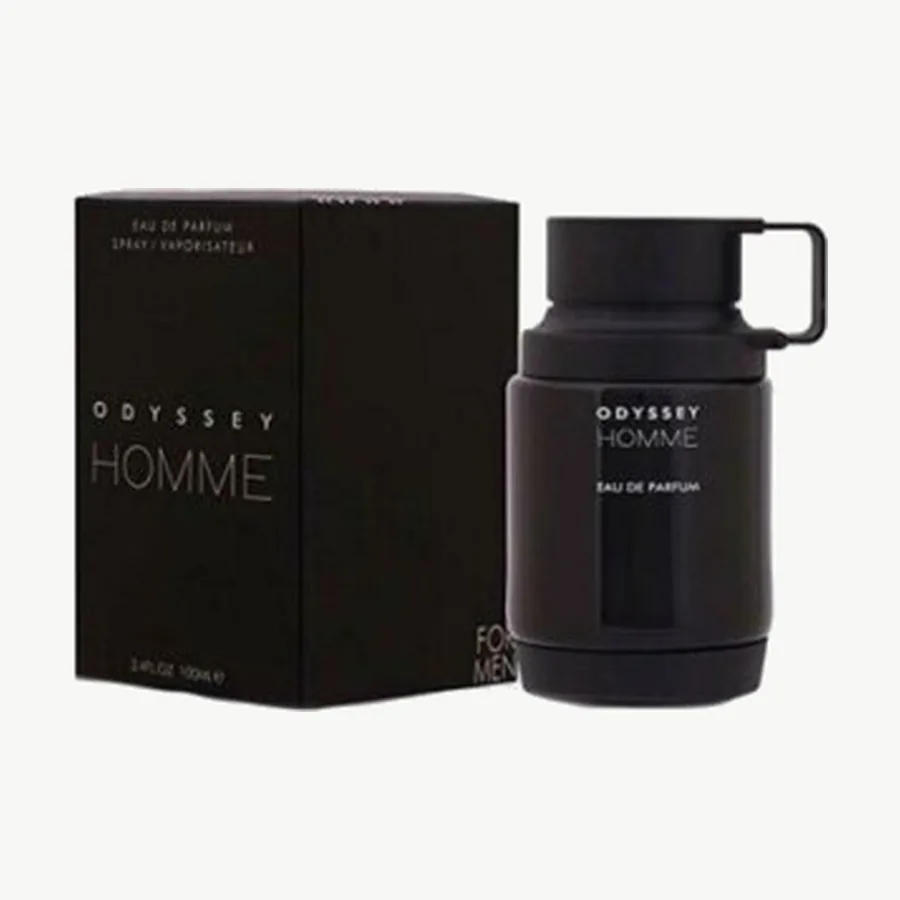
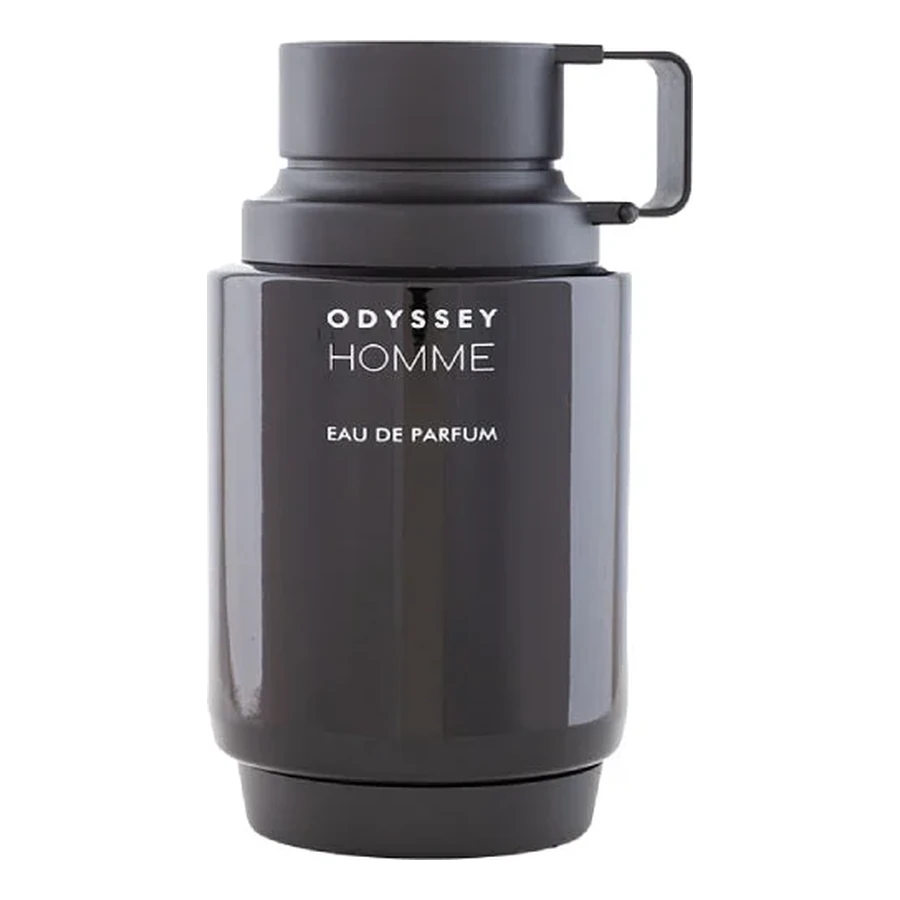
Add Rome La Bomba and Revolution Ultra, and a bottle-only Odyssey Homme
The new Odyssey Homme shot is the bottle alone, so it replaces the older
box-and-bottle composite on the 100 ml entry and also serves the 60 ml one —
same bottle, different capacity. Only Hugo Boss Unlimited is left without a
photo.

Claude-Session: https://claude.ai/code/session_01WY2PnSyttmXUJ6hCbT7HSf

diff --git a/index.html b/index.html
@@ -1347,10 +1347,10 @@
     { id: 'ZX_PE-AU-M-109313', marca: 'Armaf', nombre: 'Odyssey Homme Black', ml: '100 ml', tipo: 'EDP', genero: 'Hombre', precio: 40, img: 'img/odyssey-homme-black.webp' },
     { id: 'ZX_PE-AU-M-149371', marca: 'Armaf', nombre: 'Odyssey Mandarin Sky', ml: '100 ml', tipo: 'EDP', genero: 'Hombre', precio: 45, img: 'img/odyssey-mandarin-sky.webp' },
     { id: 'ZX_PE-AU-U-807217', marca: 'Armaf', nombre: 'Odyssey Marshmallow', ml: '100 ml', tipo: 'EDP', genero: 'Unisex', precio: 45, img: 'img/odyssey-marshmallow.webp' },
-    { id: 'ZX_PE-AU-U-805787', marca: 'Armaf', nombre: 'Odyssey Revolution Ultra', ml: '100 ml', tipo: 'EDP', genero: 'Unisex', precio: 45, img: null },
+    { id: 'ZX_PE-AU-U-805787', marca: 'Armaf', nombre: 'Odyssey Revolution Ultra', ml: '100 ml', tipo: 'EDP', genero: 'Unisex', precio: 45, img: 'img/odyssey-revolution-ultra.webp' },
     { id: 'ZX_PE-AU-M-094663', marca: 'Armaf', nombre: 'Tres Nuit', ml: '100 ml', tipo: 'EDP', genero: 'Hombre', precio: 35, img: 'img/tres-nuit.webp' },
     { id: 'ZX_PE-BHA-U-062769', marca: 'Bharara', nombre: 'Rome Imagine', ml: '100 ml', tipo: 'EDP', genero: 'Unisex', precio: 48, img: 'img/rome-imagine.webp' },
-    { id: 'ZX_PE-BHA-W-670336', marca: 'Bharara', nombre: 'Rome La Bomba', ml: '100 ml', tipo: 'EDP', genero: 'Mujer', precio: 48, img: null },
+    { id: 'ZX_PE-BHA-W-670336', marca: 'Bharara', nombre: 'Rome La Bomba', ml: '100 ml', tipo: 'EDP', genero: 'Mujer', precio: 48, img: 'img/rome-la-bomba.webp' },
     { id: 'ZX_PE-BHA-M-670480', marca: 'Bharara', nombre: 'Rome Intense', ml: '100 ml', tipo: 'EDP', genero: 'Hombre', precio: 48, img: 'img/rome-intense.webp' },
     { id: 'ZX_PE-DG-W-020233', marca: 'Dolce & Gabbana', nombre: 'Light Blue', ml: '100 ml', tipo: 'EDT', genero: 'Mujer', precio: 75, img: 'img/light-blue.webp' },
     { id: 'ZX_PE-DM-M-769565', marca: 'Dumont', nombre: 'Nitro Red Intensely', ml: '100 ml', tipo: 'EDP', genero: 'Hombre', precio: 65, img: 'img/nitro-red-intensely.webp' },
@@ -1382,7 +1382,7 @@
     { id: 'EP-ag-sweet-like-candy', marca: 'Ariana Grande', nombre: 'Sweet Like Candy', ml: '100 ml', tipo: 'EDP', genero: 'Mujer', precio: 60, img: 'img/sweet-like-candy.webp' },
     { id: 'EP-armaf-cdn-intense', marca: 'Armaf', nombre: 'Club de Nuit Intense', ml: '105 ml', tipo: 'EDP', genero: 'Hombre', precio: 55, img: 'img/club-de-nuit-intense.webp' },
     { id: 'EP-armaf-lionheart-woman', marca: 'Armaf', nombre: 'Lionheart Woman', ml: '100 ml', tipo: 'EDP', genero: 'Mujer', precio: 68, img: 'img/lionheart-woman.webp' },
-    { id: 'EP-armaf-odyssey-homme-black-60', marca: 'Armaf', nombre: 'Odyssey Homme Black', ml: '60 ml', tipo: 'EDP', genero: 'Hombre', precio: 35, img: null },
+    { id: 'EP-armaf-odyssey-homme-black-60', marca: 'Armaf', nombre: 'Odyssey Homme Black', ml: '60 ml', tipo: 'EDP', genero: 'Hombre', precio: 35, img: 'img/odyssey-homme-black.webp' },
     { id: 'EP-britney-fantasy', marca: 'Britney Spears', nombre: 'Fantasy', ml: '100 ml', tipo: 'EDP', genero: 'Mujer', precio: 38, img: 'img/fantasy.webp' },
     { id: 'EP-emper-donna-intense', marca: 'Emper', nombre: 'Donna Intense by Stallion 53', ml: '100 ml + 20 ml', tipo: 'EDP', genero: 'Mujer', precio: 40, img: 'img/donna-intense.webp' },
     { id: 'EP-emper-stallion-53', marca: 'Emper', nombre: 'Stallion 53', ml: '100 ml + 20 ml', tipo: 'EDP', genero: 'Hombre', precio: 40, img: 'img/stallion-53.webp' },
